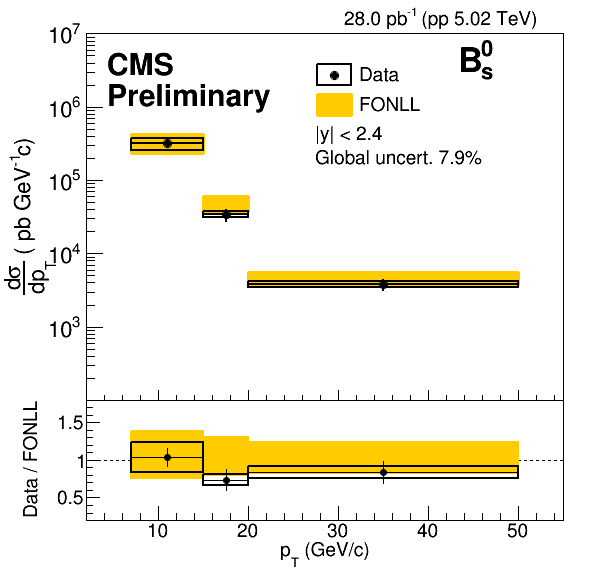
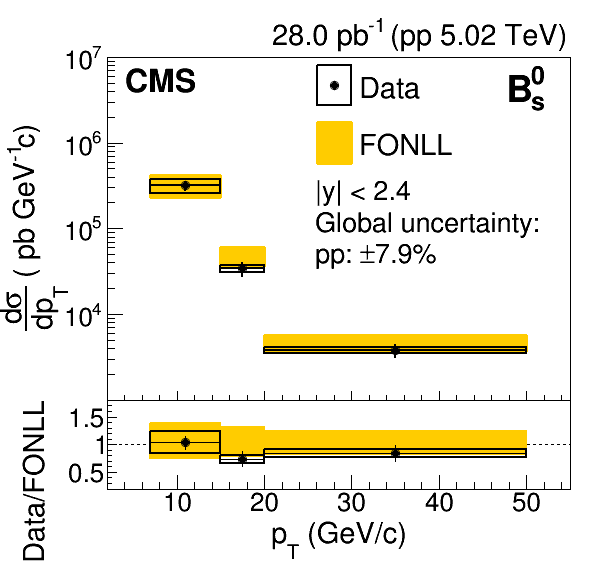
update

diff --git a/CrossSection/plotCrossSection/plotCrossSection_750/canvasSigmaBplusRatiopp.C b/CrossSection/plotCrossSection/plotCrossSection_750/canvasSigmaBplusRatiopp.C
@@ -1,7 +1,7 @@
 void canvasSigmaBplusRatiopp()
 {
 //=========Macro generated from canvas: cSigma/
-//=========  (Thu Apr 19 14:22:45 2018) by ROOT version6.02/13
+//=========  (Wed May  2 22:47:13 2018) by ROOT version6.02/13
    TCanvas *cSigma = new TCanvas("cSigma", "",0,0,600,600);
    gStyle->SetOptStat(0);
    gStyle->SetOptTitle(0);
@@ -11,29 +11,28 @@ void canvasSigmaBplusRatiopp()
    cSigma->SetBorderMode(0);
    cSigma->SetBorderSize(2);
    cSigma->SetLogy();
-   cSigma->SetLeftMargin(0.1451613);
-   cSigma->SetRightMargin(0.05443548);
-   cSigma->SetTopMargin(0.08474576);
-   cSigma->SetBottomMargin(0);
+   cSigma->SetLeftMargin(0.18);
+   cSigma->SetRightMargin(0.043);
+   cSigma->SetBottomMargin(0.145);
    cSigma->SetFrameBorderMode(0);
   
 // ------------>Primitives in pad: pSigma
    TPad *pSigma = new TPad("pSigma", "",0,0.3,1,1);
    pSigma->Draw();
    pSigma->cd();
-   pSigma->Range(-7.612091,2,58.60453,7.462963);
+   pSigma->Range(-10.27799,3,57.93308,7.666667);
    pSigma->SetFillColor(0);
    pSigma->SetBorderMode(0);
    pSigma->SetBorderSize(2);
    pSigma->SetLogy();
-   pSigma->SetLeftMargin(0.1451613);
-   pSigma->SetRightMargin(0.05443548);
-   pSigma->SetTopMargin(0.08474576);
+   pSigma->SetLeftMargin(0.18);
+   pSigma->SetRightMargin(0.043);
+   pSigma->SetTopMargin(0.1428571);
    pSigma->SetBottomMargin(0);
    pSigma->SetFrameBorderMode(0);
    pSigma->SetFrameBorderMode(0);
    
-   TH2F *hemptySigma1 = new TH2F("hemptySigma1","",50,2,55,10,100,1e+07);
+   TH2F *hemptySigma1 = new TH2F("hemptySigma1","",50,2,55,10,1000,1e+07);
    hemptySigma1->SetMinimum(0);
    hemptySigma1->SetMaximum(2);
    hemptySigma1->SetStats(0);
@@ -46,15 +45,15 @@ void canvasSigmaBplusRatiopp()
    hemptySigma1->GetXaxis()->SetTitle("p_{T} (GeV/c)");
    hemptySigma1->GetXaxis()->CenterTitle(true);
    hemptySigma1->GetXaxis()->SetLabelFont(42);
-   hemptySigma1->GetXaxis()->SetLabelOffset(0.0015);
-   hemptySigma1->GetXaxis()->SetLabelSize(0.036);
-   hemptySigma1->GetXaxis()->SetTitleSize(0.036);
+   hemptySigma1->GetXaxis()->SetLabelSize(0.06857143);
+   hemptySigma1->GetXaxis()->SetTitleSize(0.07857143);
    hemptySigma1->GetXaxis()->SetTitleFont(42);
    hemptySigma1->GetYaxis()->SetTitle("#frac{d#sigma}{dp_{T}} ( pb GeV^{-1}c)");
    hemptySigma1->GetYaxis()->CenterTitle(true);
    hemptySigma1->GetYaxis()->SetLabelFont(42);
-   hemptySigma1->GetYaxis()->SetLabelSize(0.06);
-   hemptySigma1->GetYaxis()->SetTitleSize(0.06);
+   hemptySigma1->GetYaxis()->SetLabelSize(0.06857143);
+   hemptySigma1->GetYaxis()->SetTitleSize(0.07857143);
+   hemptySigma1->GetYaxis()->SetTitleOffset(0.98);
    hemptySigma1->GetYaxis()->SetTitleFont(42);
    hemptySigma1->GetZaxis()->SetLabelFont(42);
    hemptySigma1->GetZaxis()->SetLabelSize(0.035);
@@ -171,7 +170,7 @@ void canvasSigmaBplusRatiopp()
    grae->SetFillStyle(0);
    grae->SetLineWidth(2);
    grae->SetMarkerStyle(20);
-   grae->SetMarkerSize(0.8);
+   grae->SetMarkerSize(1.142857);
    
    TH1F *Graph_gaeCrossSyst3002 = new TH1F("Graph_gaeCrossSyst3002","Graph",100,2.7,54.3);
    Graph_gaeCrossSyst3002->SetMinimum(3128.816);
@@ -197,43 +196,34 @@ void canvasSigmaBplusRatiopp()
    grae->SetHistogram(Graph_gaeCrossSyst3002);
    
    grae->Draw("5");
-   TLatex *   tex = new TLatex(0.18,0.87,"CMS");
+   TLatex *   tex = new TLatex(0.21,0.8285714,"CMS");
 tex->SetNDC();
    tex->SetTextAlign(13);
-   tex->SetTextSize(0.08);
+   tex->SetTextSize(0.08571429);
    tex->SetLineWidth(2);
    tex->Draw();
-      tex = new TLatex(0.18,0.79,"Preliminary");
+      tex = new TLatex(0.95,0.9142857,"28.0 pb^{-1} (pp 5.02 TeV)");
 tex->SetNDC();
-   tex->SetTextAlign(13);
-   tex->SetTextSize(0.08);
-   tex->SetLineWidth(2);
-   tex->Draw();
-      tex = new TLatex(0.9,0.936,"28.0 pb^{-1} (pp 5.02 TeV)");
-tex->SetNDC();
-   tex->SetTextAlign(31);
+   tex->SetTextAlign(32);
    tex->SetTextFont(42);
+   tex->SetTextSize(0.07857143);
    tex->SetLineWidth(2);
    tex->Draw();
-      tex = new TLatex(0.53,0.65,"|y| < 2.4");
+      tex = new TLatex(0.53,0.5,"|y| < 2.4");
 tex->SetNDC();
    tex->SetTextFont(42);
+   tex->SetTextSize(0.07142857);
    tex->SetLineWidth(2);
    tex->Draw();
-      tex = new TLatex(0.77,0.82,"B^{0}_{s}");
+      tex = new TLatex(0.85,0.7428571,"B^{0}_{s}");
 tex->SetNDC();
-   tex->SetTextSize(0.09);
-   tex->SetLineWidth(2);
-   tex->Draw();
-      tex = new TLatex(0.53,0.59,"Global uncert. 7.9%");
-tex->SetNDC();
-   tex->SetTextFont(42);
+   tex->SetTextSize(0.1);
    tex->SetLineWidth(2);
    tex->Draw();
    
-   TLegend *leg = new TLegend(0.52,0.7,0.85,0.85,NULL,"brNDC");
+   TLegend *leg = new TLegend(0.52,0.5714286,0.85,0.8571429,NULL,"brNDC");
    leg->SetBorderSize(0);
-   leg->SetTextSize(0.05);
+   leg->SetTextSize(0.07857143);
    leg->SetLineColor(1);
    leg->SetLineStyle(1);
    leg->SetLineWidth(1);
@@ -262,6 +252,18 @@ tex->SetNDC();
    entry->SetMarkerSize(1);
    entry->SetTextFont(42);
    leg->Draw();
+      tex = new TLatex(0.53,0.42,"Global uncertainty:");
+tex->SetNDC();
+   tex->SetTextFont(42);
+   tex->SetTextSize(0.07142857);
+   tex->SetLineWidth(2);
+   tex->Draw();
+      tex = new TLatex(0.53,0.3428571,"pp: #pm7.9%");
+tex->SetNDC();
+   tex->SetTextFont(42);
+   tex->SetTextSize(0.07142857);
+   tex->SetLineWidth(2);
+   tex->Draw();
    pSigma->Modified();
    cSigma->cd();
   
@@ -269,14 +271,14 @@ tex->SetNDC();
    TPad *pRatio = new TPad("pRatio", "",0,0,1,0.3);
    pRatio->Draw();
    pRatio->cd();
-   pRatio->Range(-7.612091,-0.4857143,58.60453,1.8);
+   pRatio->Range(-10.27799,-1.296774,57.93308,1.8);
    pRatio->SetFillColor(0);
    pRatio->SetBorderMode(0);
    pRatio->SetBorderSize(2);
-   pRatio->SetLeftMargin(0.1451613);
-   pRatio->SetRightMargin(0.05443548);
+   pRatio->SetLeftMargin(0.18);
+   pRatio->SetRightMargin(0.043);
    pRatio->SetTopMargin(0);
-   pRatio->SetBottomMargin(0.3);
+   pRatio->SetBottomMargin(0.4833333);
    pRatio->SetFrameBorderMode(0);
    pRatio->SetFrameBorderMode(0);
    
@@ -289,17 +291,16 @@ tex->SetNDC();
    hemptyRatio3->GetXaxis()->SetTitle("p_{T} (GeV/c)");
    hemptyRatio3->GetXaxis()->CenterTitle(true);
    hemptyRatio3->GetXaxis()->SetLabelFont(42);
-   hemptyRatio3->GetXaxis()->SetLabelSize(0.12);
-   hemptyRatio3->GetXaxis()->SetTitleSize(0.12);
+   hemptyRatio3->GetXaxis()->SetLabelSize(0.16);
+   hemptyRatio3->GetXaxis()->SetTitleSize(0.1833333);
    hemptyRatio3->GetXaxis()->SetTickLength(0.09999999);
    hemptyRatio3->GetXaxis()->SetTitleFont(42);
-   hemptyRatio3->GetYaxis()->SetTitle("Data / FONLL");
-   hemptyRatio3->GetYaxis()->CenterTitle(true);
+   hemptyRatio3->GetYaxis()->SetTitle("Data/FONLL");
    hemptyRatio3->GetYaxis()->SetNdivisions(505);
    hemptyRatio3->GetYaxis()->SetLabelFont(42);
-   hemptyRatio3->GetYaxis()->SetLabelSize(0.12);
-   hemptyRatio3->GetYaxis()->SetTitleSize(0.12);
-   hemptyRatio3->GetYaxis()->SetTitleOffset(0.5);
+   hemptyRatio3->GetYaxis()->SetLabelSize(0.16);
+   hemptyRatio3->GetYaxis()->SetTitleSize(0.1833333);
+   hemptyRatio3->GetYaxis()->SetTitleOffset(0.42);
    hemptyRatio3->GetYaxis()->SetTitleFont(42);
    hemptyRatio3->GetZaxis()->SetLabelFont(42);
    hemptyRatio3->GetZaxis()->SetLabelSize(0.035);
@@ -400,7 +401,7 @@ tex->SetNDC();
    grae->SetTitle("Graph");
    grae->SetFillColor(1);
    grae->SetMarkerStyle(20);
-   grae->SetMarkerSize(0.8);
+   grae->SetMarkerSize(1.142857);
    
    TH1F *Graph_gaeRatioCrossFONLLstat3004 = new TH1F("Graph_gaeRatioCrossFONLLstat3004","Graph",100,2.7,54.3);
    Graph_gaeRatioCrossFONLLstat3004->SetMinimum(0.5473979);
